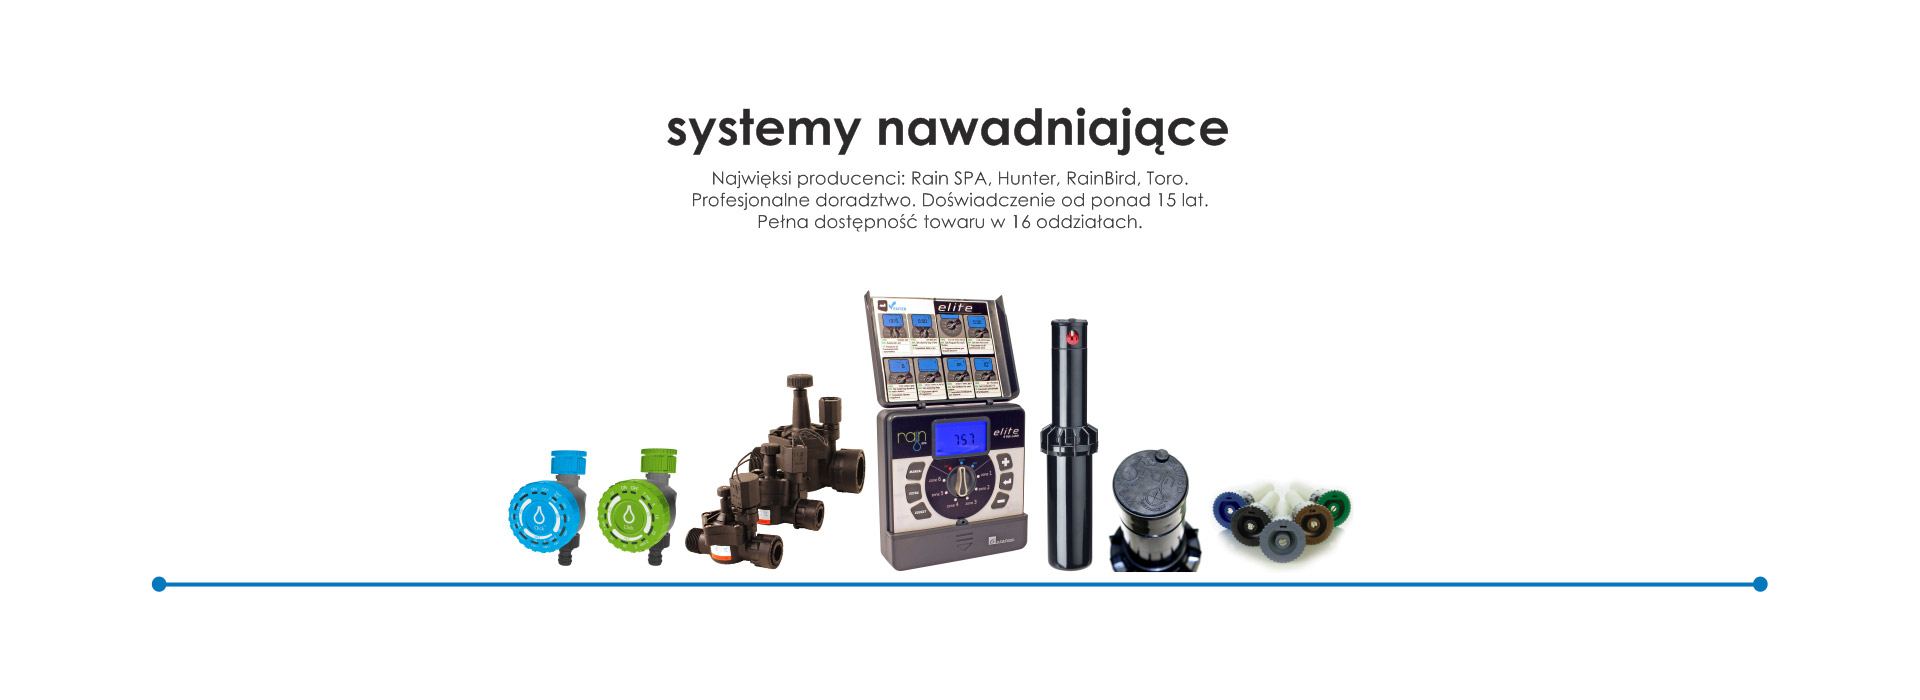
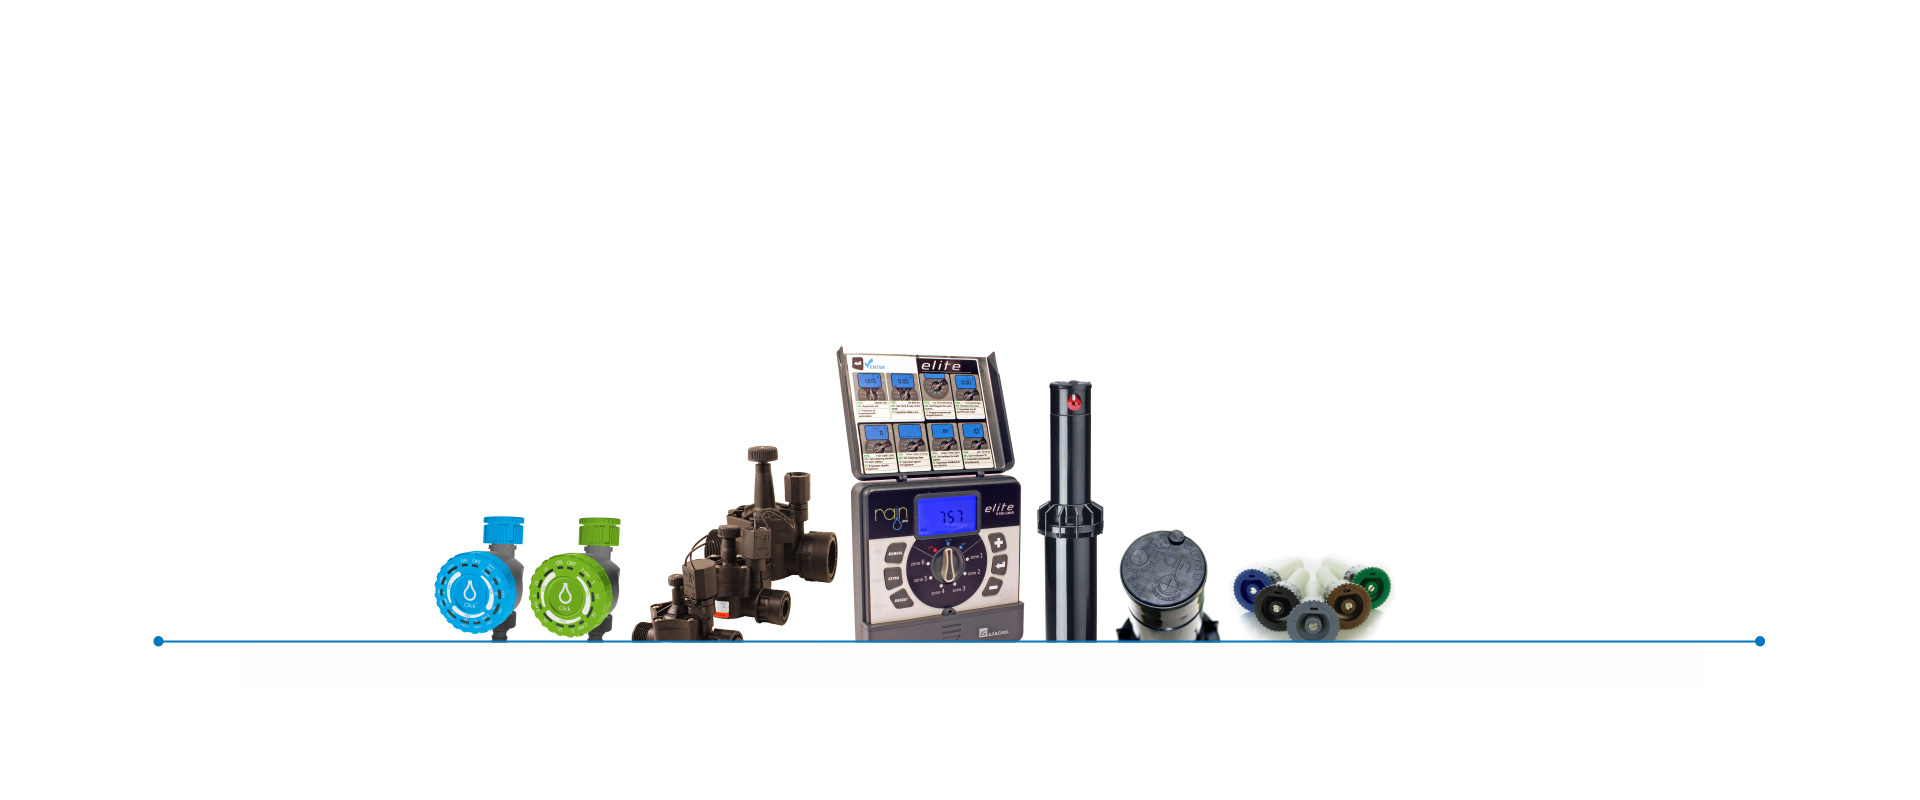
New slider with text

Changed region(s): [[0.0625, 0.42, 0.9375, 0.84], [0.3438, 0.24, 0.625, 0.33], [0.3438, 0.15, 0.6562, 0.21]]

diff --git a/layout/style/main.css b/layout/style/main.css
@@ -3,8 +3,9 @@ body {
   height: 100%;
   margin: 0;
   padding: 0;
-  color: #333;
+  color: #000;
   font-size: 13px;
+  overflow-x: hidden;
 }
 body,
 button,
@@ -17,7 +18,7 @@ div,
 p,
 ul,
 li {
-  font-family: 'Sintony', sans-serif;
+  font-family: "Century Gothic";
 }
 .menu-1,
 .menu-2,
@@ -47,8 +48,8 @@ li {
   color: #23abf0;
 }
 .menu-1 {
-  background-color: #333;
-  font-size: 14px;
+  background-color: #000;
+  font-size: 15px;
 }
 .menu-1 a {
   color: #fff;
@@ -75,7 +76,7 @@ li {
   background-color: #eee;
 }
 .menu-3 a {
-  color: #333;
+  color: #000;
 }
 .logo {
   text-align: center;
@@ -94,9 +95,21 @@ li {
     transform: rotate(360deg);
   }
 }
+.slide {
+  line-height: 26px;
+}
+.slide h3 {
+  font-size: 32px;
+  font-weight: bolder;
+}
 .slide i {
   font-size: 40px;
   color: #aaa;
+}
+.carousel-caption {
+  color: #000;
+  background-color: #fff;
+  opacity: 0.8;
 }
 .content .im-breadcrumb {
   padding: 5px;
@@ -114,7 +127,7 @@ li {
 .footer {
   width: 100%;
   color: #fff;
-  background-color: #333;
+  background-color: #000;
   padding: 20px;
   text-align: center;
   min-height: 40%;

diff --git a/layout/style/files/layout.less b/layout/style/files/layout.less
@@ -4,9 +4,10 @@ html, body{
     padding: 0;
     color: @black;
     font-size: 13px;
+    overflow-x: hidden;
 }
 body, button, a, label, input, span, nav, div, p, ul, li{
-    font-family: 'Sintony', sans-serif;
+    font-family: "Century Gothic";
 }
 .menu-1, .menu-2, .menu-3 {
     padding: 5px 0 5px;
@@ -27,7 +28,7 @@ body, button, a, label, input, span, nav, div, p, ul, li{
 }
 .menu-1{
     background-color: @black;
-    font-size: 14px;
+    font-size: 15px;
     a{
         color: @white;
         em{
@@ -63,10 +64,20 @@ body, button, a, label, input, span, nav, div, p, ul, li{
     }
 }
 .slide{
+    line-height: 26px;
+    h3{
+        font-size: 32px;
+        font-weight: bolder;
+    }
     i{
         font-size: 40px;
         color: @gray;
     }
+}
+.carousel-caption{
+    color: @black;
+    background-color: @white;
+    .opacity(0.8);
 }
 .content{
     .im-breadcrumb{

diff --git a/layout/style/extension/vars.less b/layout/style/extension/vars.less
@@ -10,7 +10,7 @@
 
 //Kolory
 @white: #fff;
-@black: #333;
+@black: #000;
 @gray: #aaa;
 @gray-light: #eee;
 @gray-dark: #555;

diff --git a/layout/style/extension/mixing.less b/layout/style/extension/mixing.less
@@ -12,3 +12,6 @@
     }
   }
 }
+.opacity(@opacity) {
+  opacity: @opacity;
+}

diff --git a/layout/content/slider.php b/layout/content/slider.php
@@ -14,6 +14,11 @@
 
                         echo '<div class="carousel-item'.$active.'">';
 
+                        echo '<div class="carousel-caption d-none d-md-block" style="bottom: unset; top: 80px">
+                              <h3>'.$s_slider[$s]['title'].'</h3>
+                              '.($s_slider[$s]['content'] != '' ? '<p>'.$s_slider[$s]['content'].'</p>' : '').'
+                              </div>';
+
                         echo '<img class="d-block w-100" src="layout/graphic/slider/'.$s.'" alt="Slider">';
 
                         echo '</div>';
@@ -27,12 +32,14 @@
                     
                     ?>
                 </div>
+                <?php if(count($slider) > 3) { ?>
                 <a class="carousel-control-prev" href="#carouselExampleControls" role="button" data-slide="prev">
                     <i class="fal fa-chevron-circle-left"></i>
                 </a>
                 <a class="carousel-control-next" href="#carouselExampleControls" role="button" data-slide="next">
                     <i class="fal fa-chevron-circle-right"></i>
                 </a>
+                <?php } ?>
                 <?php
 
                 $active = ' class="active"';

diff --git a/config/setting.php b/config/setting.php
@@ -37,6 +37,15 @@ $s_menuContent = array(
     )
 
 );
+$s_slider = array(
+    '1.jpg' => array(
+        'title' => 'systemy nawadniające',
+        'content' => 'Najwięksi producenci: Rain SPA, Hunter, RainBird, Toro.<br>
+                      Profesjonalne doradztwo. Doświadczenie od ponad 15 lat.<br>
+                      Pełna dostępność towaru w 16 oddziałach'
+    )
+);
+
 $s_shop = array(
     'zaworyantyskzeniowe-pl' => array(
         'name' => 'zaworyanyskazeniowe.pl',

diff --git a/data/dla-instalatorow/nawodnienia/e-sklepy.php b/data/dla-instalatorow/nawodnienia/e-sklepy.php
@@ -1,0 +1,1 @@
+<?php
